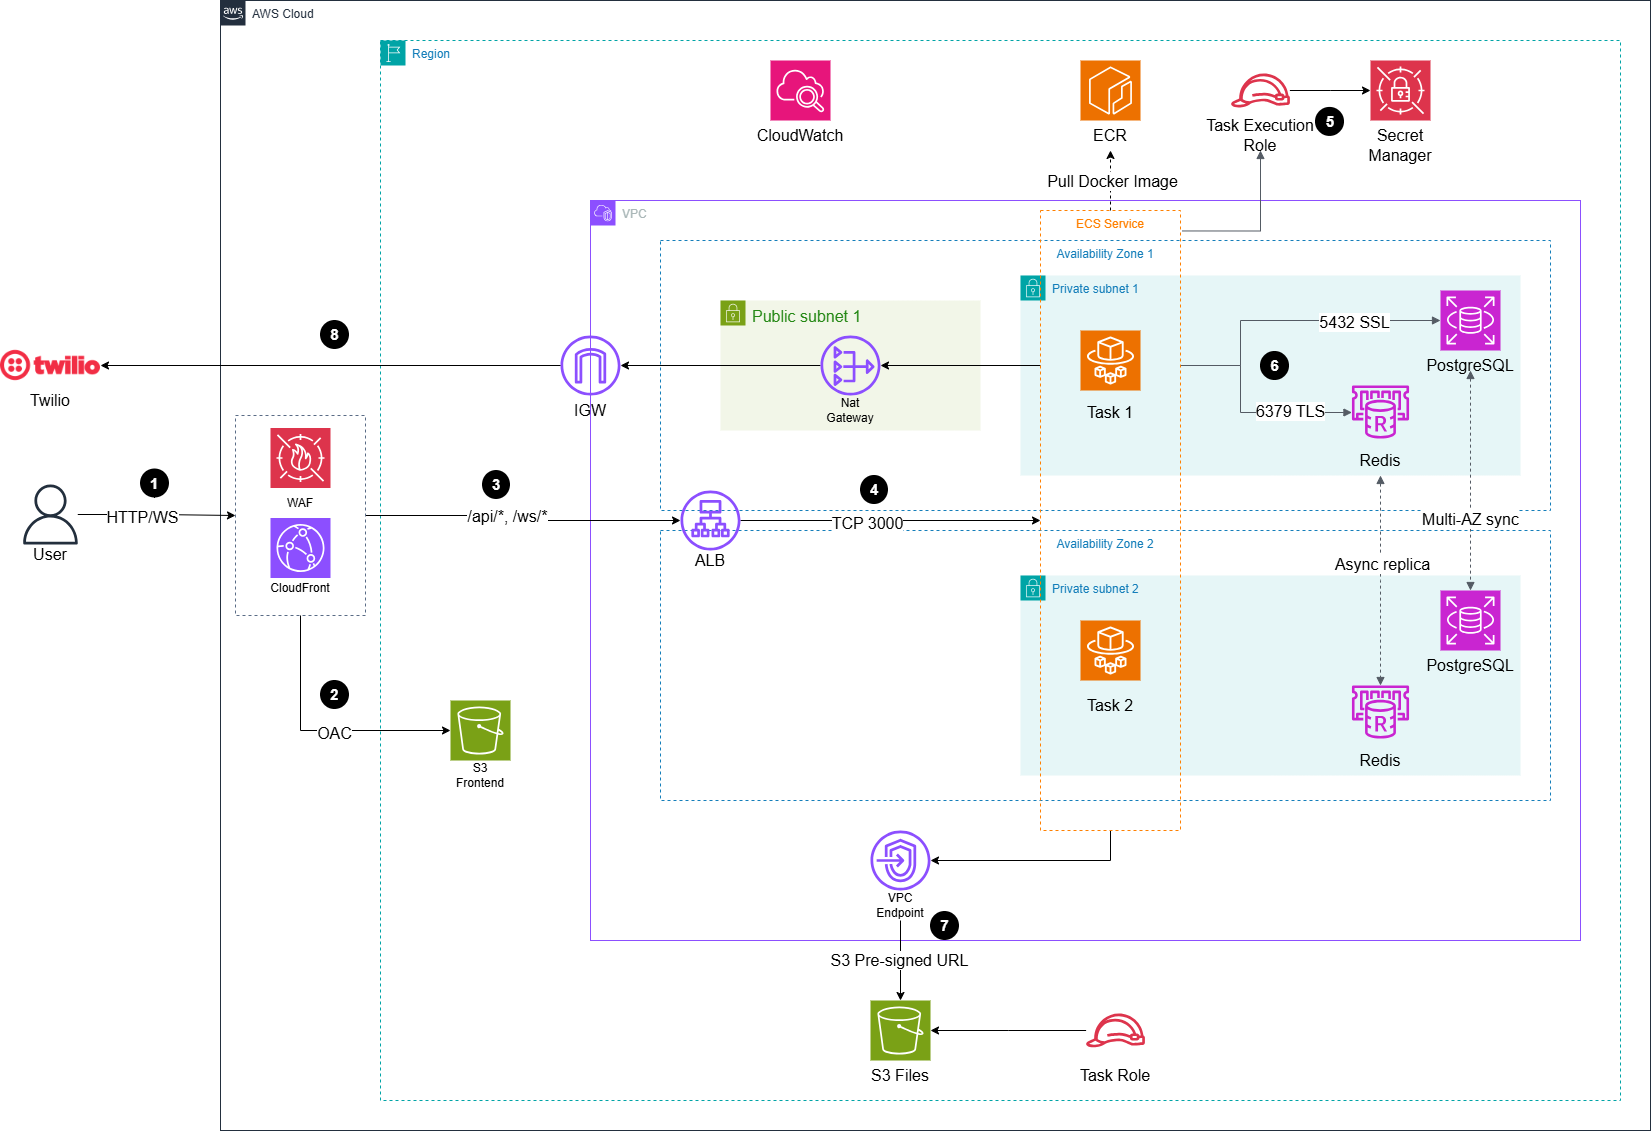
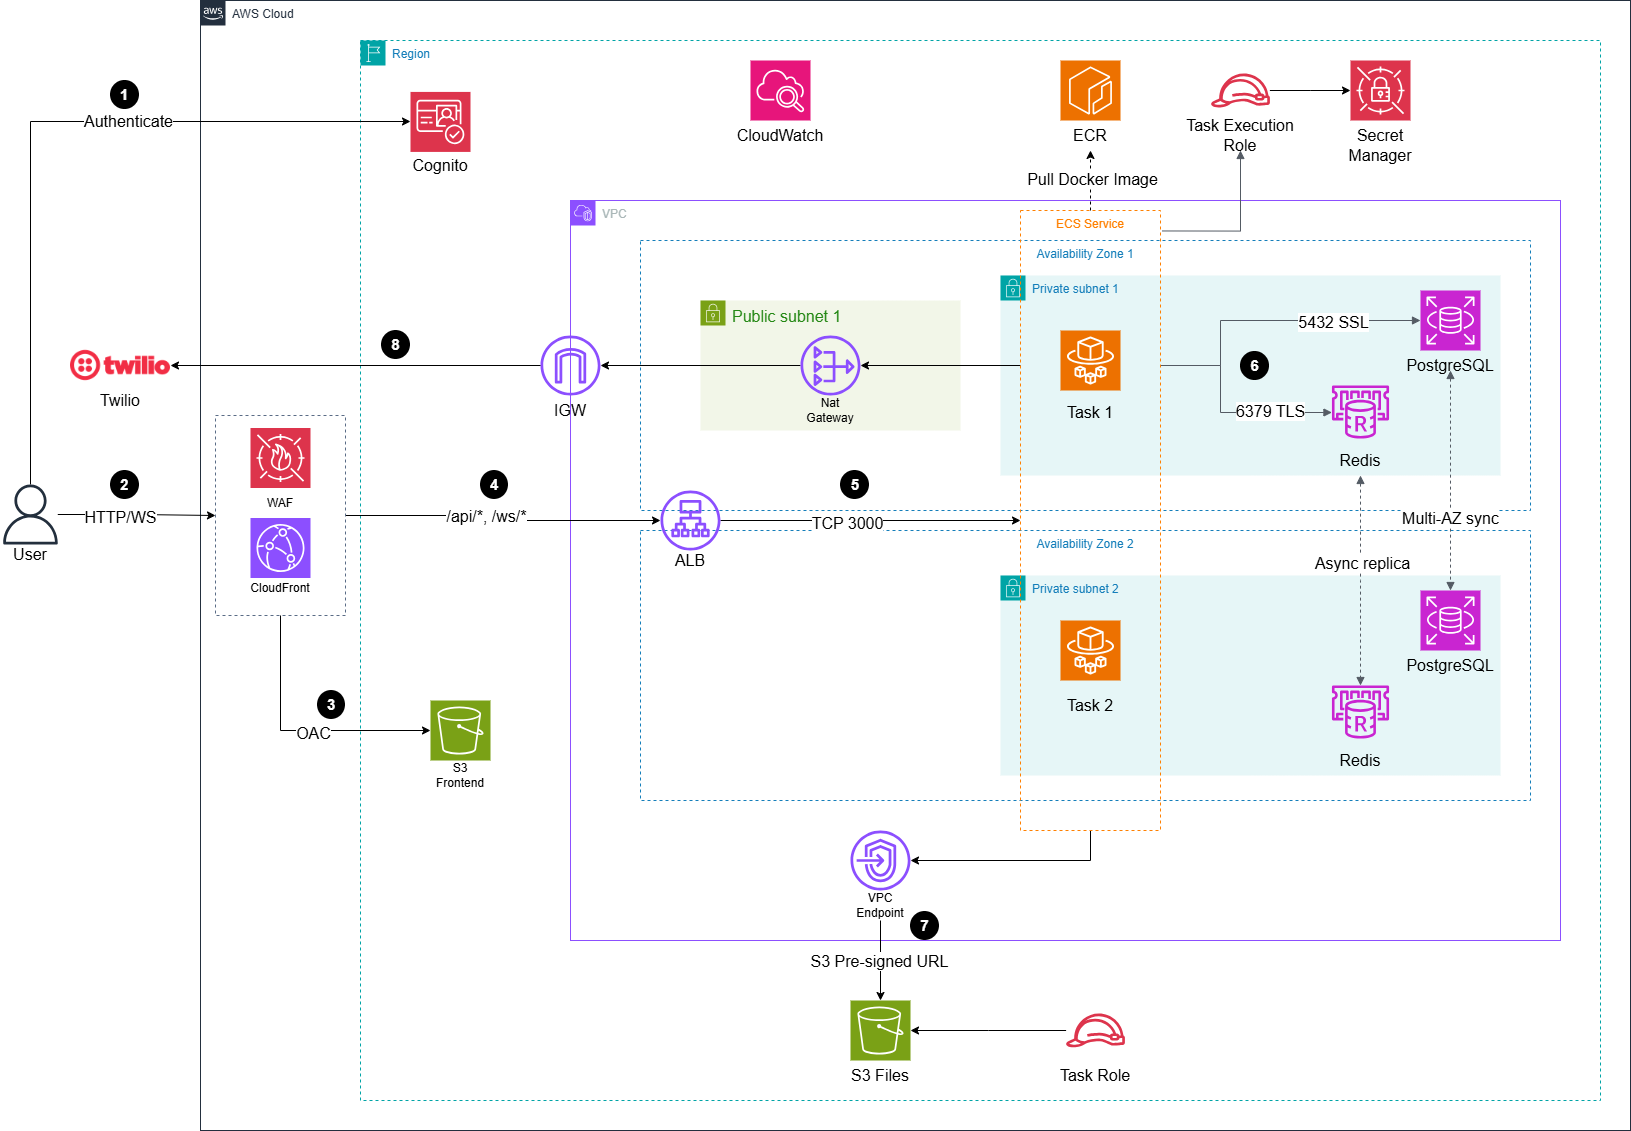
update prosal

diff --git a/content/4Bandexuat/_index.md b/content/4Bandexuat/_index.md
@@ -6,13 +6,13 @@ chapter : false
 pre : " <b> 4. </b> "
 ---
 
-#### AntiGroup Real-time Chat & Streaming Platform
+#### AntiCollab Real-time Chat & Streaming Platform
 *Technical Proposal & Cloud Infrastructure Design on Amazon Web Services*
 
 ---
 
 ### 1. Executive Summary
-The **AntiGroup** project aims to build a Discord-like real-time community collaboration platform, allowing users to exchange text messages, check online presence, and initiate voice/video group calls directly. The platform is tailored for students and researchers to collaborate within laboratory environments.
+The **AntiCollab** project aims to build a Discord-like real-time community collaboration platform, allowing users to exchange text messages, check online presence, and initiate voice/video group calls directly. The platform is tailored for students and researchers to collaborate within laboratory environments.
 
 To guarantee high availability, low messaging latency (under 200ms), and elastic scalability without excessive upfront hardware costs, the solution is designed to run natively on **Amazon Web Services (AWS)**.
 
@@ -36,7 +36,7 @@ The AWS infrastructure design is detailed below:
 
 ![ConnectPrivate](/nguyenhuunhan-2280602174-awsreport/images/4-Proposal/Diagram.png)
 
-*AWS Services Used & Data Flow*
+*AWS Services Used*:
 - **Amazon VPC & Subnets (Multi-AZ)**: Secure Multi-AZ network topology separated into Public Subnets (hosting ALB, NAT Gateway) and Private Subnets (hosting ECS Fargate Tasks, RDS PostgreSQL, and ElastiCache Redis).
 - **Amazon CloudFront & AWS WAF**: Operates as a secure global HTTPS/WSS Ingress point protected by AWS WAF to filter malicious traffic. Distributes static frontend from S3 via OAC and routes dynamic API/WebSocket traffic to the ALB.
 - **Application Load Balancer (ALB)**: Receives traffic from CloudFront and routes /api/* to the REST API Target Group (Round-robin) and /ws/* to the WebSocket Target Group (Sticky sessions) of the ECS Service.
@@ -44,9 +44,20 @@ The AWS infrastructure design is detailed below:
 - **Amazon RDS (PostgreSQL)**: The primary relational database running in Multi-AZ configuration (synchronous replication between Master DB in AZ1 and Standby DB in AZ2) storing users, messages, servers, and channels.
 - **Amazon ElastiCache (Redis)**: Highly available Redis cache running in Multi-AZ (asynchronous replication from Primary node in AZ1 to Replica node in AZ2) used as a Redis Pub/Sub adapter to sync socket events across containers and cache user presence states.
 - **Amazon S3 & VPC Gateway Endpoint**: Includes S3 Frontend for static web hosting and S3 Files for attachments. ECS Tasks connect to S3 Files via internal VPC S3 Gateway Endpoint to optimize network performance and security.
-- **AWS Secrets Manager & CloudWatch**: Securely stores credentials (RDS password, JWT, Twilio API keys, Redis AUTH Token) injected into tasks at startup. Outbound application logs are streamed to CloudWatch Logs.
+- **AWS Secrets Manager & CloudWatch**: Securely stores credentials (RDS password, JWT, Twilio API keys, Redis AUTH Token, Cognito credentials) injected into tasks at startup. Outbound application logs are streamed to CloudWatch Logs.
 - **NAT Gateway & Internet Gateway (IGW)**: Provides one-way outbound internet routing for private subnets to pull images from ECR, retrieve secrets, send logs, and fetch WebRTC ICE/TURN tokens from Twilio APIs.
 - **AWS IAM**: Enforces least privilege access using ecsTaskRole (access to S3, Secrets Manager) and ecsTaskExecutionRole (ECR image pulls, CloudWatch logs) to maintain security boundaries.
+- **AWS Cognito**: Provides centralized identity management, handling registration, login, and secure JSON Web Token (JWT) validation without storing passwords on the database backend.
+
+*Architectural Flow*:
+- **1. Authenticate**: Client (Frontend) sends login credentials directly to the **AWS Cognito User Pool**, which authenticates and returns a JSON Web Token (JWT).
+- **2. Access Application**: User accesses the application via the secure HTTPS/WSS entry point on **CloudFront**, passing through the **AWS WAF** firewall (set to monitor/COUNT mode).
+- **3. Serve Static Content**: CloudFront routes static asset requests via Origin Access Control (OAC) to the **S3 Frontend** bucket to serve the React application.
+- **4. Dynamic Routing**: API calls (`/api/*`) or WebSocket handshakes (`/ws/*`) are forwarded by CloudFront to the **Application Load Balancer (ALB)**. Client includes the Cognito JWT in the `Authorization` header.
+- **5. Backend Processing**: ALB routes the traffic to the active **ECS Tasks** in Private Subnets. Express routes and SocketAuth middleware validate and verify the JWT with AWS Cognito public keys. (Upon task startup, the container uses Task Execution Role to pull the Docker image from **Amazon ECR**, and uses Task Role to fetch credentials from **AWS Secrets Manager**).
+- **6. Database & Cache Sync**: The task connects to **RDS PostgreSQL (Port 5432 SSL)** for persistent storage and **ElastiCache Redis (Port 6379 TLS)** as a Pub/Sub adapter to synchronize WebSocket events across containers.
+- **7. File Upload**: ECS Task generates a Pre-signed URL for S3 upload. The Client uploads files directly to **S3 Files** bucket through the internal **VPC S3 Gateway Endpoint** to optimize security and speed.
+- **8. WebRTC Signaling**: The task integrates with **Twilio API** to retrieve STUN/TURN configurations (ICE Servers) through NAT Gateway and Internet Gateway (IGW) for peer-to-peer audio/video streaming (WebRTC).
 
 *Component Design*
 - **Client (Frontend)**: ReactJS application hosted statically on S3 using useWebSocket.js for Socket.io message exchange and presence updates, and useWebRTC.js for WebRTC calls.
@@ -58,55 +69,36 @@ The AWS infrastructure design is detailed below:
 *Implementation Phases*
 The project was executed by the team in 4 distinct phases:
 1. **Phase 1: Requirements Analysis & App Development (Weeks 7 - 9)**: Team members analyzed the real-time chat and video calling specifications; developed the ReactJS frontend replicating a Discord-like UI and the Node.js backend (Express and Socket.io); and integrated local PostgreSQL and Redis databases.
-2. **Phase 2: Architecture Design & Local Verification (Week 10)**: Designed the AWS Architecture Diagram on draw.io, performed end-to-end local integration testing using Docker Compose, and developed Terraform scripts to model and verify basic cloud networks.
-3. **Phase 3: Console Infrastructure Deployment (Week 11)**: Manually configured and provisioned the production cloud infrastructure (VPC Multi-AZ, Secrets Manager, Security Groups, S3, RDS PostgreSQL Multi-AZ, ElastiCache Redis Multi-AZ, ALB, CloudFront + WAF, and ECS Cluster/Service Fargate) on the AWS Console; built container images and pushed to ECR.
-4. **Phase 4: System Integration Testing & Handover (Week 12)**: Executed system integration tests on AWS; validated WebSocket messaging, WebRTC group calling (via Twilio), and S3 file attachments; audited error logs via CloudWatch Logs; completed self-evaluation reports, and cleaned up AWS resources.
+2. **Phase 2: Architecture Diagram & Local Testing (Week 10)**: Designed detailed AWS architecture diagram on draw.io; integrated and tested application locally via Docker Compose; used Terraform to validate routing and VPC structures on AWS.
+3. **Phase 3: AWS Console Service Deployment (Week 11)**: Deployed all infrastructure manually via AWS console (VPC Multi-AZ, Secrets Manager, Security Groups, S3, RDS PostgreSQL Multi-AZ, ElastiCache Redis Multi-AZ, ALB, CloudFront + WAF, and ECS Fargate); pushed Docker images to ECR.
+4. **Phase 4: Integration Testing & Handover (Week 12)**: Executed system integration tests on AWS; verified WebSocket chat, WebRTC calls (via Twilio), and S3 file uploads; analyzed logs via CloudWatch; wrote final reports and cleaned up sandbox resources.
 
 *Technical Requirements*
-- **Environment**: Docker Desktop locally. AWS CLI v2 configured. Terraform >= 1.6 for IaC deployment.
-- **Frontend**: NodeJS >= 18 for ReactJS building, Socket.io-client for websockets, Lucide React for UI icons.
-- **Backend**: NodeJS >= 18, PostgreSQL relational DB, Redis for cache & pub/sub, Twilio API keys for TURN server.
+- **Runtime Environment**: Docker Desktop locally. AWS CLI v2 configured for deployment. Terraform >= 1.6 for infrastructure verification.
+- **Frontend**: NodeJS >= 18 for building ReactJS. Socket.io-client for WebSockets, Lucide React for UI icons.
+- **Backend**: NodeJS >= 18. PostgreSQL for persistent DB, Redis for cache and pub/sub. Twilio credentials configured for STUN/TURN WebRTC signaling.
 
 ---
 
-### 5. Roadmap & Milestones
-The team's project roadmap is divided into the following milestones:
-- **Milestone 1 (Weeks 7 - 9)**:
-  - Design relational database schemas and finalize code for Unified Backend and React Frontend.
-  - Run local end-to-end developer testing and resolve layout/logic issues.
-- **Milestone 2 (Week 10)**:
-  - Sketch the detailed AWS network architecture diagram on draw.io.
-  - Complete local application stack integration testing via Docker Compose.
-  - Write Terraform scripts to test and validate network and routing structures.
-- **Milestone 3 (Week 11)**:
-  - Provision VPC, Secrets Manager, Security Groups, S3, and IAM Roles on the AWS Console.
-  - Deploy highly available Multi-AZ database engines (RDS PostgreSQL and ElastiCache Redis).
-  - Wrap backend services into Docker images, push to ECR, and configure target groups, ALB, CloudFront + WAF, and ECS Fargate.
-- **Milestone 4 (Week 12)**:
-  - Perform live environment integration testing for WebSockets and WebRTC group calling.
-  - Complete the internship technical report, self-evaluation, and delete sandbox resources.
-
----
-
-### 6. Budget Estimation
-Estimated infrastructure costs in us-east-1:
+### 5. Budget Estimation
+Estimated infrastructure costs in us-east-1 based on the actual report from the AWS Pricing Calculator:
 
 *Monthly Estimated Infrastructure Costs*
-- **Amazon ECS Fargate**: 2 tasks running continuously (0.5 vCPU, 1 GB RAM) **$18.00/month**.
-- **Amazon RDS (PostgreSQL)**: Instance class db.t3.medium, Multi-AZ, 20 GB GP3 storage **$30.00/month**.
-- **Amazon ElastiCache (Redis)**: Instance class cache.t3.micro Multi-AZ (1 replica) for pub/sub sync **$24.00/month**.
-- **Application Load Balancer (ALB)**: 1 ALB for backend traffic routing **$22.26/month**.
-- **Amazon CloudFront**: Caches static assets & terminates SSL (Free Tier includes 1 TB outbound bandwidth) **$2.00/month** (when exceeding free tier).
-- **Amazon S3**: File storage & Frontend static hosting (< 50 GB) **$1.20/month**.
-- **AWS Secrets Manager**: Stores 4 secret keys **$1.60/month** ($0.40/secret).
-- **AWS CloudWatch**: Collects log streams and metric histories **$3.00/month**.
-- **Network / Bandwidth**: Data transfer to Internet **$2.00/month**.
+- **Amazon ECS Fargate**: 2 tasks running continuously (0.5 vCPU, 1 GB RAM per task) **$36.04/month**.
+- **Amazon RDS (PostgreSQL)**: Instance class db.t3.medium, Multi-AZ, 20 GB GP3 storage **$110.45/month**.
+- **Amazon ElastiCache (Redis)**: Instance class cache.t3.micro Multi-AZ (1 replica) for pub/sub sync **$24.82/month**.
+- **Application Load Balancer (ALB)**: 1 ALB for backend traffic routing **$22.27/month**.
+- **Amazon CloudFront**: Caches static assets & terminates SSL (Free Plan Tier) **$0.00/month**.
+- **Amazon S3**: File storage & Frontend static hosting (50 GB S3 Standard) **$1.15/month**.
+- **AWS Secrets Manager**: Stores 5 secret keys **$2.05/month** ($0.40/secret + minimal API request cost).
+- **AWS CloudWatch**: Collects log streams and metric histories **$3.00/month** (Minimum estimate).
+- **Network / Bandwidth**: Data transfer to Internet **$2.00/month** (Minimum estimate).
 
-**Total Monthly Infrastructure Cost**: **$104.06/month**
+**Total Monthly Infrastructure Cost**: **$201.78/month**
 
 ---
 
-### 7. Risk Assessment
+### 6. Risk Assessment
 *Risk Matrix*
 - **Risk 1: WebRTC direct P2P call fails due to symmetric NAT/firewalls.**
   - *Impact*: High.
@@ -123,7 +115,7 @@ Estimated infrastructure costs in us-east-1:
 
 ---
 
-### 8. Expected Outcomes
+### 7. Expected Outcomes
 *Technical Enhancements*
 - E2E real-time community chat platform with text message delivery latencies under 200ms.
 - Stable WebRTC audio/video group calls.